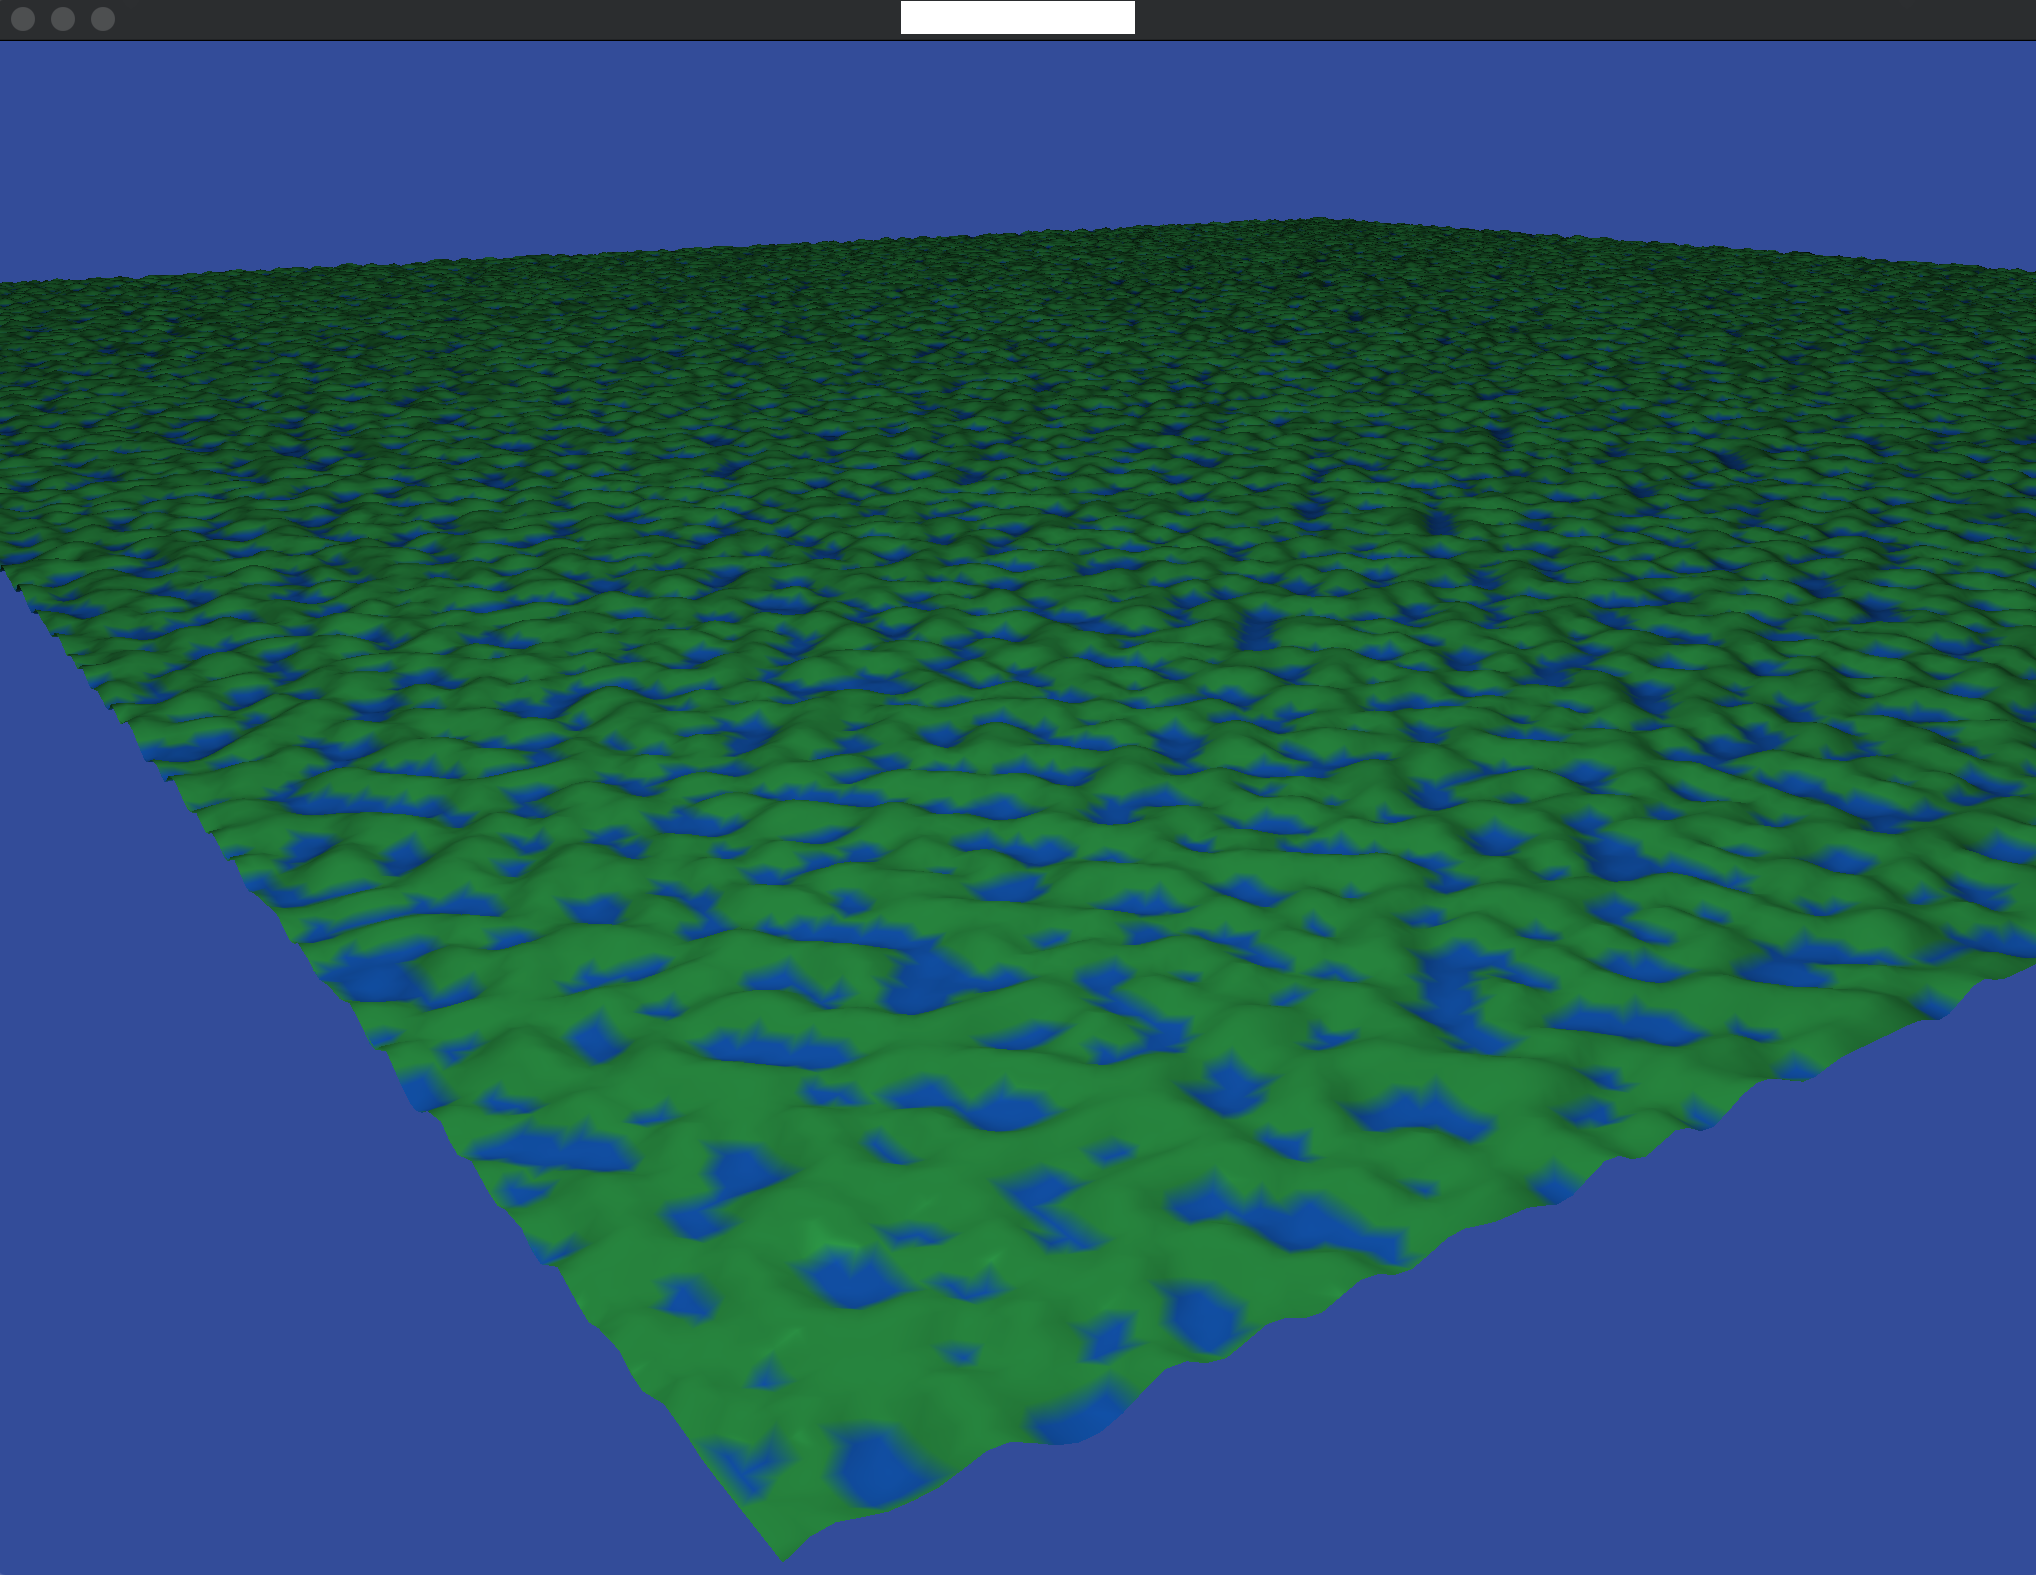
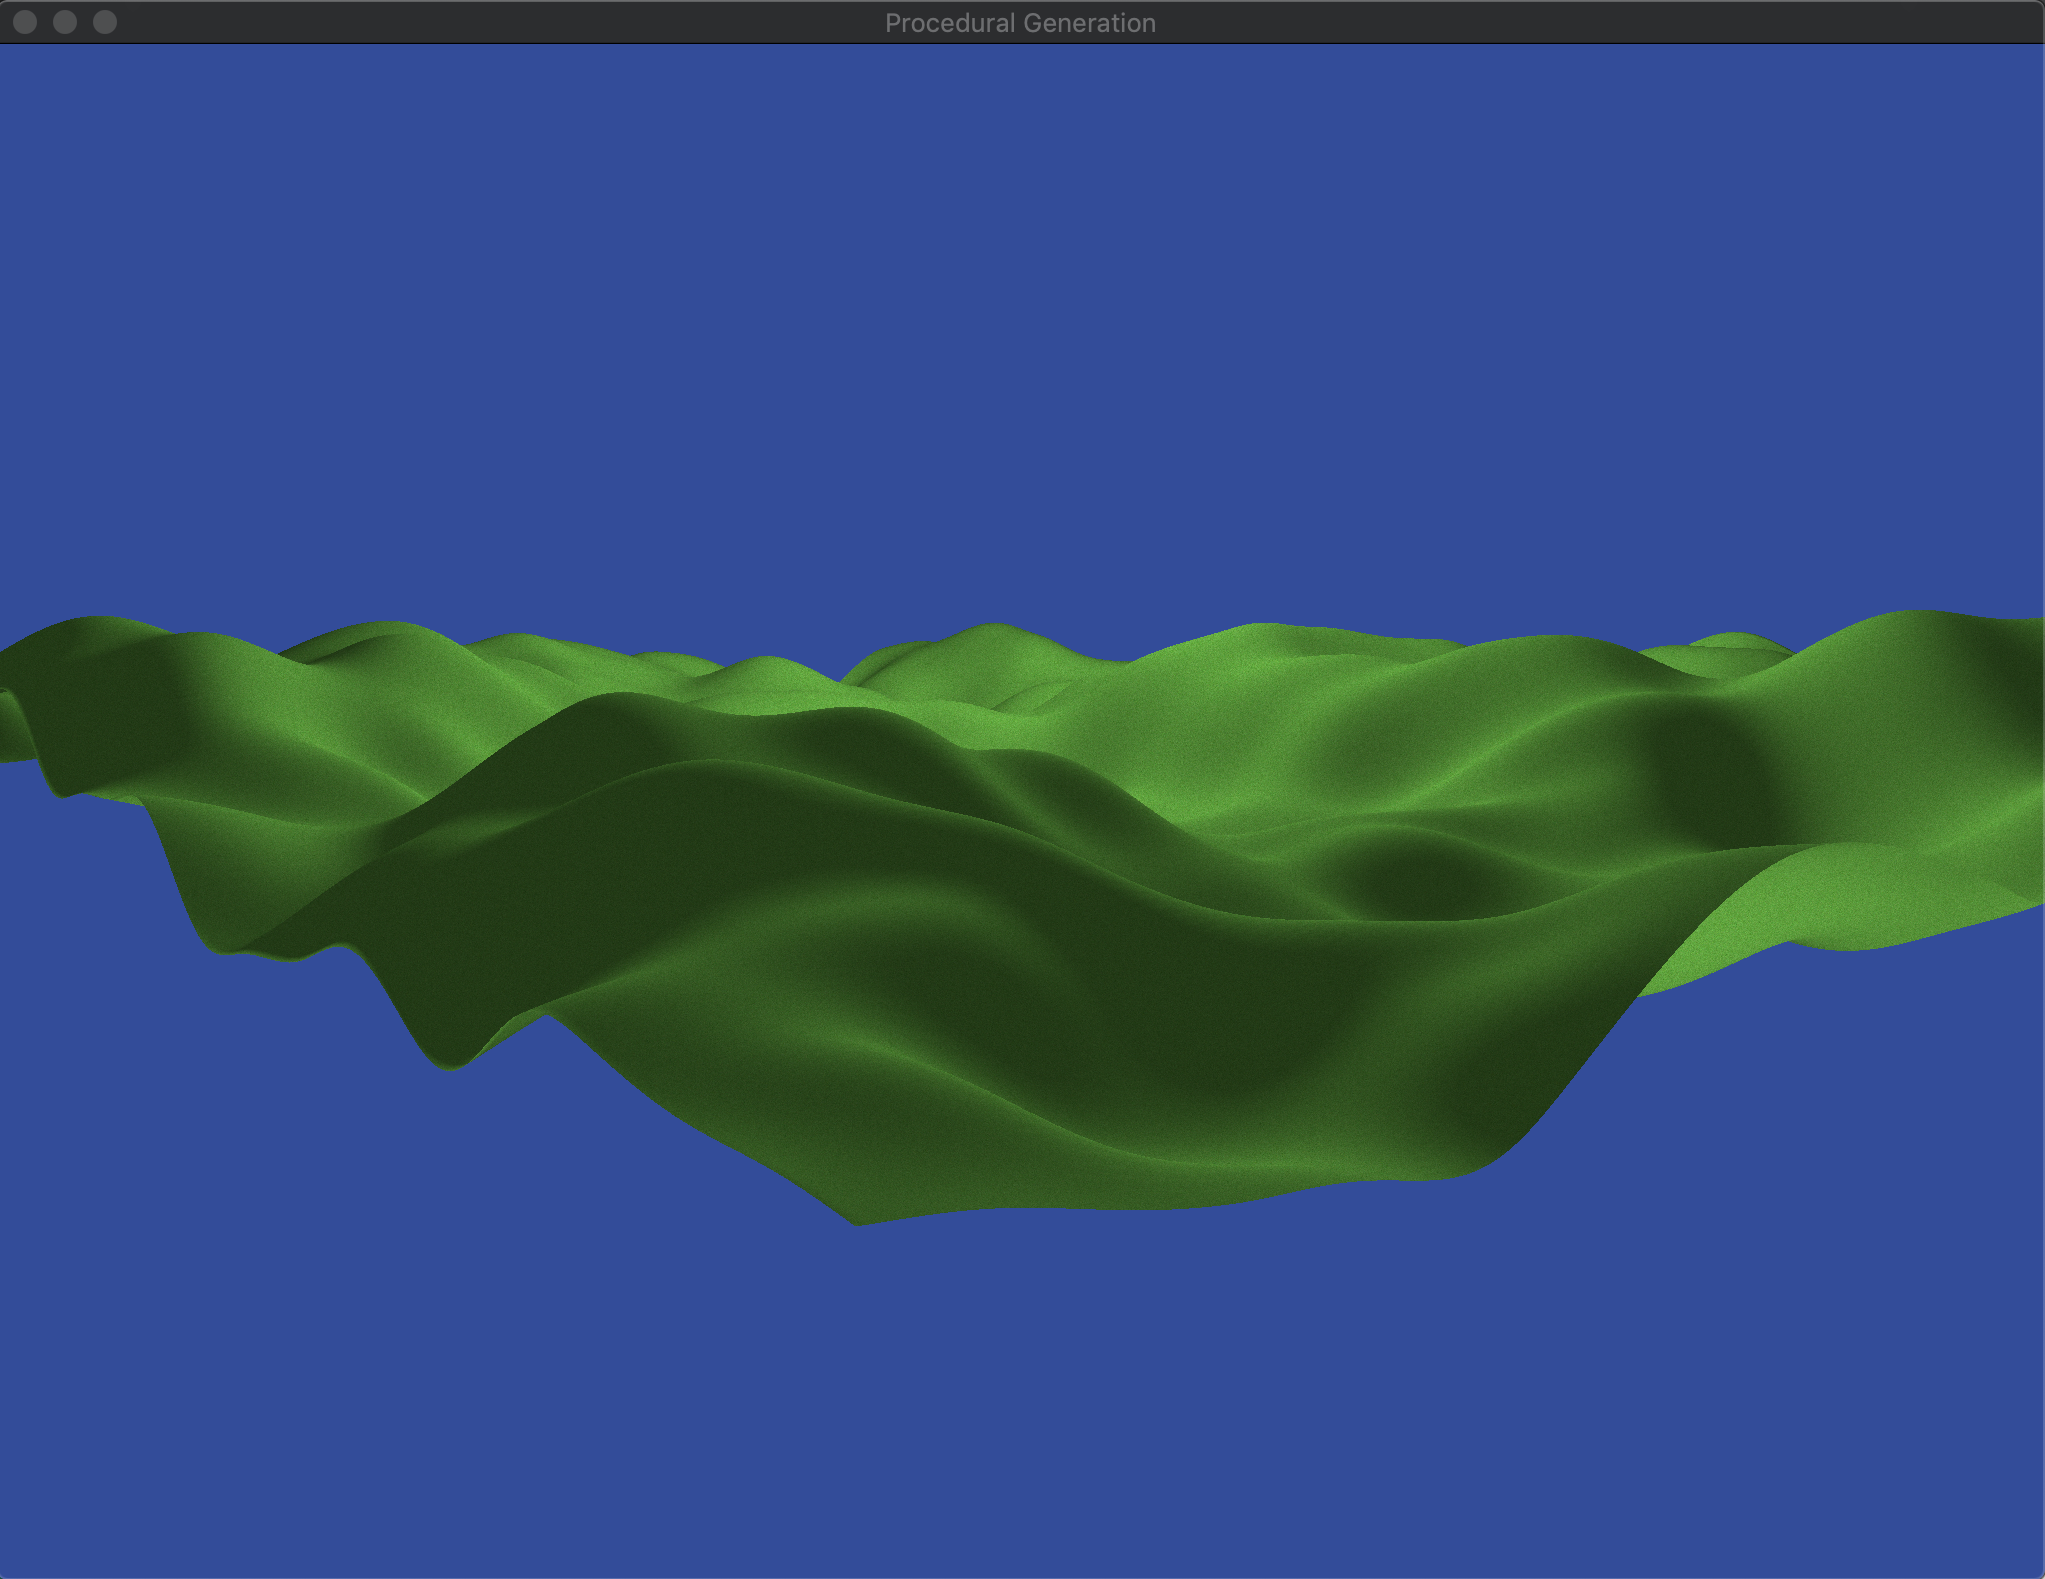
Cleanup and added grass texture

diff --git a/src/drawables/terrain.rs b/src/drawables/terrain.rs
@@ -2,7 +2,7 @@ use arrayvec::ArrayVec;
 
 use noise::{NoiseFn, Perlin};
 
-use vek::vec::Vec3;
+use vek::vec::{Vec3, Vec2};
 
 use std::mem;
 
@@ -17,13 +17,13 @@ const GRID_SIZE_MEM: usize = (GRID_SIZE * GRID_SIZE) as usize;
 #[derive(Debug)]
 struct Vertex {
     pos: Vec3<f32>,
-    color: Vec3<f32>,
     normal: Vec3<f32>,
+    texture_uv: Vec2<f32>
 }
 
 pub struct Terrain;
 
-pub const SEA_LEVEL: f32 = -0.4; 
+pub const SEA_LEVEL: f32 = -20.0; 
 
 impl Drawable for Terrain {
     fn vertex_attributes(&self) -> DrawableAttributes {
@@ -33,16 +33,28 @@ impl Drawable for Terrain {
         for x in 0..GRID_SIZE {
             for z in 0..GRID_SIZE {
                 let height = height.inner[x as usize][z as usize];
-                let color = if height > SEA_LEVEL {
-                    Vec3::new(0.137, 0.47, 0.22)
+                //let color = Vec3::new(0.137, 0.47, 0.22);
+
+                // let color = if height > SEA_LEVEL {
+                //     Vec3::new(0.137, 0.47, 0.22)
+                // } else {
+                //     Vec3::new(0.06, 0.28, 0.58)
+                // };
+
+                let texture_uv = if x % 2 == 1 && z % 2 == 1 {
+                    Vec2::new(0.0, 0.0)
+                } else if x % 2 == 1 && z % 2 == 0  {
+                    Vec2::new(0.0, 1.0)
+                } else if x % 2 == 0 && z % 2 == 1 {
+                    Vec2::new(1.0, 0.0)
                 } else {
-                    Vec3::new(0.06, 0.28, 0.58)
+                    Vec2::new(1.0, 1.0)
                 };
 
                 vertex_attributes.push(Vertex {
                     pos: Vec3::new(x as _, height as _, z as _),
-                    color,
                     normal: Vec3::new(0.0, -1.0, 0.0),
+                    texture_uv
                 });
             }
         }
@@ -328,38 +340,6 @@ impl Drawable for Terrain {
              }
         }
 
-        // Calculate surface normals
-        //
-        // Note: since we add bottom/top first, we have to carefully
-        // not disrupt right hand rule
-        // let mut surface_normals: Vec<f32> = Vec::with_capacity(ROW_SIZE);
-        // for index in (0..indices.len()).step_by(3) {
-        //     let a_index = indices[index];
-        //     let b_index = indices[index + 1];
-        //     let c_index = indices[index + 2];
-
-        //     let a = Vec3::new(vertices[a_index as usize], vertices[a_index as usize + 1], vertices[a_index as usize + 2]);
-        //     let b = Vec3::new(vertices[b_index as usize], vertices[b_index as usize + 1], vertices[b_index as usize + 2]);
-        //     let c = Vec3::new(vertices[c_index as usize], vertices[c_index as usize + 1], vertices[c_index as usize + 2]);
-
-        //     let normal = Vec3::cross(b - a, c - a);
-
-        //     surface_normals.push(normal[0]);
-        //     surface_normals.push(normal[1]);
-        //     surface_normals.push(normal[2]);
-        // }
-
-        // Combine vertices and surface normals
-        // let mut vertex_attributes: Vec<f32> = Vec::with_capacity(ROW_SIZE);
-        // for index in (0..vertices.len()).step_by(3) {
-        //     vertex_attributes.push(vertices[index as usize]);
-        //     vertex_attributes.push(vertices[index as usize + 1]);
-        //     vertex_attributes.push(vertices[index as usize + 2]);
-        //     vertex_attributes.push(surface_normals[index as usize]);
-        //     vertex_attributes.push(surface_normals[index as usize + 1]);
-        //     vertex_attributes.push(surface_normals[index as usize + 2]);
-        // }
-
         // Use ArrayVec until [f32; N] gets into_iterator
         let vertex_attributes = vertex_attributes
             .iter()
@@ -368,12 +348,11 @@ impl Drawable for Terrain {
                     vertex.pos[0],
                     vertex.pos[1],
                     vertex.pos[2],
-                    vertex.color[0],
-                    vertex.color[1],
-                    vertex.color[2],
                     vertex.normal[0],
                     vertex.normal[1],
                     vertex.normal[2],
+                    vertex.texture_uv[0],
+                    vertex.texture_uv[1]
                 ])
             })
             .flatten()
@@ -385,19 +364,19 @@ impl Drawable for Terrain {
             VertexAttribPointer {
                 index: 0,
                 size: 3,
-                stride: 9 * mem::size_of::<f32>(),
+                stride: 8 * mem::size_of::<f32>(),
                 offset: 0,
             },
             VertexAttribPointer {
                 index: 1,
                 size: 3,
-                stride: 9 * mem::size_of::<f32>(),
+                stride: 8 * mem::size_of::<f32>(),
                 offset: 3 * mem::size_of::<f32>() as usize,
             },
             VertexAttribPointer {
                 index: 2,
-                size: 3,
-                stride: 9 * mem::size_of::<f32>(),
+                size: 2,
+                stride: 8 * mem::size_of::<f32>(),
                 offset: 6 * mem::size_of::<f32>() as usize,
             },
         ];
@@ -426,14 +405,19 @@ impl RandomHeightGenerator {
 
         let perlin = Perlin::new();
 
-        let mut xoff = 0.0;
+        let frequency = 3.0;
+
+        // let mut xoff = 0.0;
         for x in 0..GRID_SIZE {
-            let mut zoff = 0.0;
+            // let mut zoff = 0.0;
             for z in 0..GRID_SIZE {
-                s.inner[x as usize][z as usize] = perlin.get([xoff, zoff]) as _; 
-                zoff += 0.2;
+                let nx = (x as f64 / GRID_SIZE as f64) - 0.5;
+                let ny = (z as f64 / GRID_SIZE as f64) - 0.5;
+
+                s.inner[x as usize][z as usize] = (perlin.get([frequency * nx, frequency *ny]) 
+                                          + 0.5  * perlin.get([frequency * 2.0 * nx, frequency * 2.0 * ny])
+                                          + 0.25 * perlin.get([frequency * 4.0 * nx, frequency * 4.0 * ny])) as f32 * 25.0;
             }
-            xoff += 0.2;
         }
 
         s

diff --git a/src/main.rs b/src/main.rs
@@ -5,6 +5,7 @@ use backend::camera::{Camera, CameraMovement};
 use backend::object::Object;
 use backend::renderer::{Capabilities, ClearFlags, PolygonMode, Renderer};
 use backend::shader::Shader;
+use backend::texture::Texture;
 
 use drawables::Terrain;
 
@@ -32,10 +33,13 @@ fn main() {
     let renderer = Renderer::new(windowed_context);
     renderer.enable(Capabilities::DEPTH_TEST);
 
-    let light_shader = Shader::from_file("shaders/terrain.vert", "shaders/terrain.frag");
+    let terrain_shader = Shader::from_file("shaders/terrain.vert", "shaders/terrain.frag");
+
+
+    let (grass, grass_id) = Texture::new("textures/low_def_grass.jpg");
 
     // Create object
-    let point_grid = Object::new(Terrain, Vec3::new(0.0, 0.0, 0.0), None);
+    let point_grid = Object::new(Terrain, Vec3::new(0.0, 0.0, 0.0), Some(grass));
 
     let mut camera = Camera::new(
         Vec3::new(2.5, 8.0, 2.5),
@@ -100,7 +104,7 @@ fn main() {
 
         // Clear screen for drawing
         renderer.clear(Vec4::new(0.2, 0.3, 0.6, 0.5), ClearFlags::COLOR_DEPTH);
-
+        
         let projection = Mat4::perspective_rh_zo(
             f32::to_radians(camera.get_zoom()),
             (logical_size.width / logical_size.height) as _,
@@ -108,16 +112,16 @@ fn main() {
             1000.0,
         );
 
-        light_shader.use_program();
-        light_shader.set_mat4fv("view", &camera.get_view_matrix());
-        light_shader.set_mat4fv("projection", &projection);
-        light_shader.set_vec3f("light_color", &Vec3::new(1.0, 1.0, 1.0));
-        light_shader.set_vec3f("light_pos", &Vec3::new(2.5, 100.0, 2.5));
-        light_shader.set_vec3f("view_pos", camera.get_position());
+
+        terrain_shader.use_program();
+        terrain_shader.set_mat4fv("view", &camera.get_view_matrix());
+        terrain_shader.set_mat4fv("projection", &projection);        terrain_shader.set_sampler2D("texture", grass_id);
+        terrain_shader.set_vec3f("light_color", &Vec3::new(1.0, 1.0, 1.0));
+        terrain_shader.set_vec3f("light_pos", &Vec3::new(250.0, 100.0, 250.0));
 
         // Models
         let model = point_grid.get_transform();
-        light_shader.set_mat4fv("model", &model);
+        terrain_shader.set_mat4fv("model", &model);
         point_grid.draw();
 
         // Swap windows

diff --git a/src/backend/texture.rs b/src/backend/texture.rs
@@ -24,8 +24,8 @@ impl Texture {
             gl::TexParameteri(gl::TEXTURE_2D, gl::TEXTURE_WRAP_S, gl::REPEAT as _);
             gl::TexParameteri(gl::TEXTURE_2D, gl::TEXTURE_WRAP_T, gl::REPEAT as _);
             // set texture filtering parameters
-            gl::TexParameteri(gl::TEXTURE_2D, gl::TEXTURE_MIN_FILTER, gl::LINEAR as _);
-            gl::TexParameteri(gl::TEXTURE_2D, gl::TEXTURE_MAG_FILTER, gl::LINEAR as _);
+            gl::TexParameteri(gl::TEXTURE_2D, gl::TEXTURE_MIN_FILTER, gl::NEAREST as _);
+            gl::TexParameteri(gl::TEXTURE_2D, gl::TEXTURE_MAG_FILTER, gl::NEAREST as _);
 
             gl::TexImage2D(
                 gl::TEXTURE_2D,
@@ -47,7 +47,6 @@ impl Texture {
     pub fn bind(&self) {
         unsafe {
             // bind textures on corresponding texture units
-            //gl::ActiveTexture(gl::TEXTURE0);
             gl::BindTexture(gl::TEXTURE_2D, self.0);
         }
     }

diff --git a/src/backend/shader.rs b/src/backend/shader.rs
@@ -171,4 +171,14 @@ impl Shader {
             gl::Uniform3fv(mat_loc, 1, data.as_slice().as_ptr());
         }
     }
+
+    #[allow(non_snake_case)]
+    pub fn set_sampler2D<S: Into<&'static str>>(&self, name: S, data: u32) {
+        let data_name = CString::new(name.into()).unwrap();
+
+        unsafe {
+            let sampler = gl::GetUniformLocation(self.program, data_name.as_ptr());
+            gl::Uniform1i(sampler, data as _);
+        }
+    }
 }
